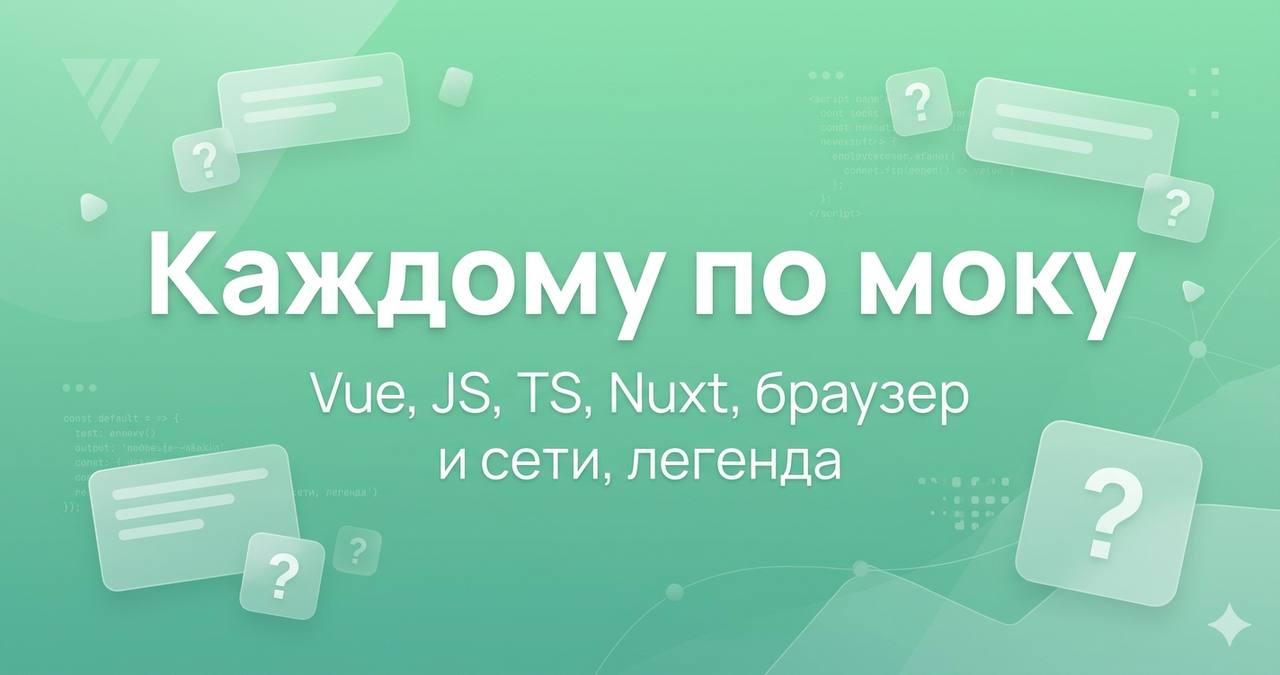
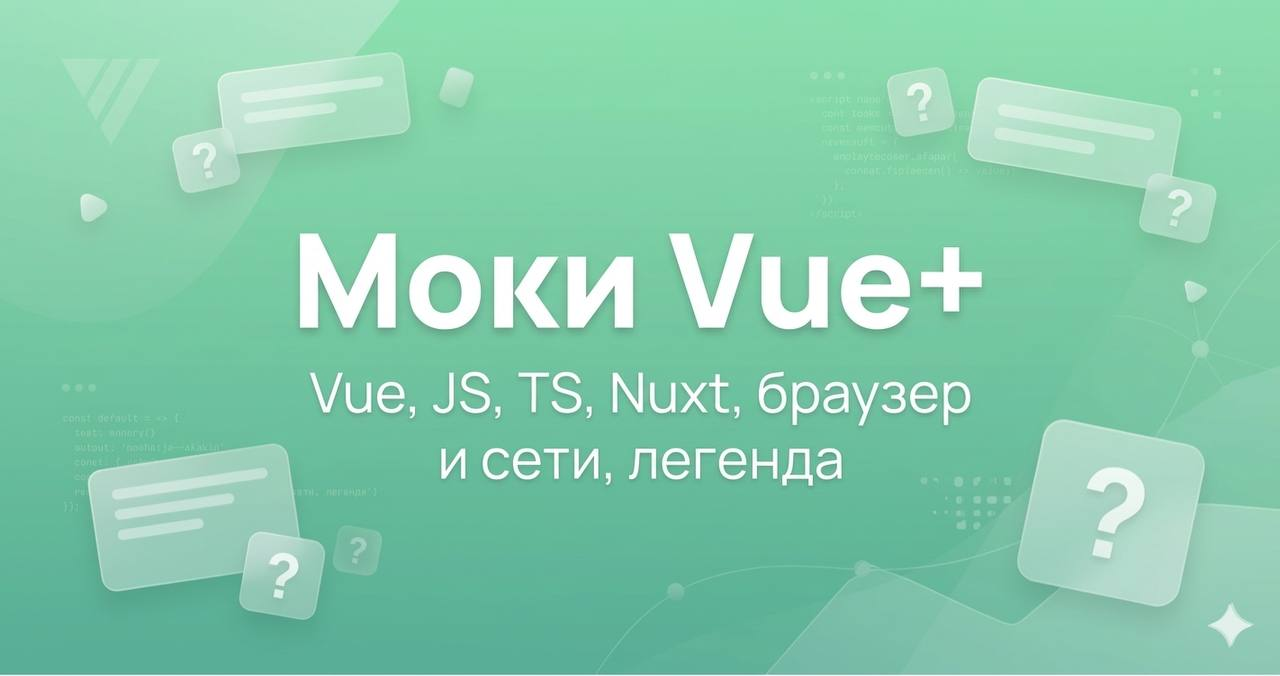
add: og-image

diff --git a/index.html b/index.html
@@ -13,7 +13,7 @@
     <title>Моки</title>
 
     <!-- Open Graph -->
-    <meta property="og:title" content="Моки Vue+">
+    <meta property="og:title" content="Каждому по моку">
     <meta
       property="og:description"
       content="Тренажер интервью по фронтенду: Vue, JS, TS, React, Nuxt, браузер и сети, легенда."
